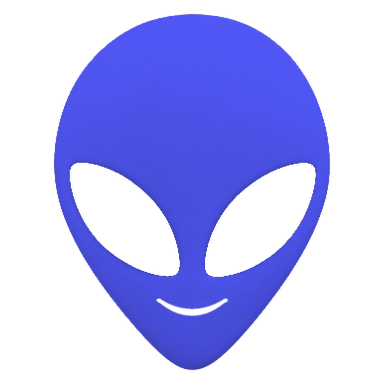
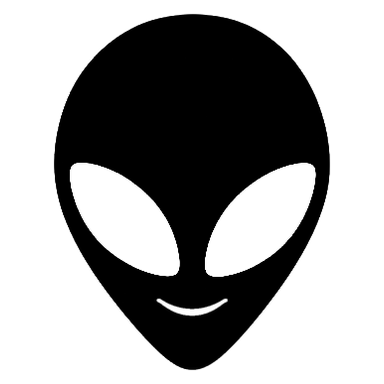
fix(landing): the code is drawn in ink, with no margin but the one a scanner needs
Two things were wrong with the plate the hero now holds, and both were mine to
get right (#262).

INK, NOT THE BRAND ACCENT. The plate drew in cobalt `#494fdf` because the code
colourway in the design kit is cobalt. Cobalt is the system's emphasis colour and
the doc keeps it scarce on marketing surfaces — a code is a document a camera
reads before a person looks at it, and 6.06:1 is 0.88 of the contrast ink gives
it. The modules are `--color-canvas-dark` now (21.00:1, the maximum a code can
carry), and the mark in the well is the same ink: `generate.py`'s code colourway
is regenerated in `#000000`, so the head and the modules are one colour.

THE PADDING WAS A SECOND MARGIN. The plate carried `p-5` on top of the four
modules of quiet zone already inside the SVG, so a reader saw 50px of white
around a code that needs 30. The quiet zone IS the margin; the plate adds none
now, `overflow-hidden` rounds the SVG's own white background, and the 26-31px
quiet zone keeps every corner module clear of the 12px arc. The code fills the
plate and is bigger at the same width.

`check:qr-plate` moves with it: the ink literal is now pinned to
`--color-canvas-dark` and the quoted contrast is the measured 21.00:1.

diff --git a/web/components/qr/qr.constants.ts b/web/components/qr/qr.constants.ts
@@ -6,51 +6,56 @@
  * symbol is left intact. All three are geometry. The brand is a fourth, and it is
  * spent out of the first three rather than painted over them.
  *
- *  - **Contrast is cobalt, and it is measured.** `#494fdf` is `--color-primary`
- *    (`web/app/globals.css`); a literal here because this colour goes into an SVG
- *    attribute a machine reads, not into a class a person styles. Cobalt on the white
- *    plate is **6.06:1** (relative luminance 0.123 against 1.000), where literal black
- *    is 21.00:1. So the code spends contrast for the brand, and the cost is known: the
- *    symbol keeps 88% of the symbol contrast black gave it (SC 0.88 vs 1.00, against
- *    the 0.20 a scanner needs). What defends the rest of the margin is that every
- *    module keeps its FULL dark area — corners rounded, module not shrunk to a dot,
- *    and neighbours overlapping by 3% so no white seam grows between them. A "pretty"
- *    code of 70% dots throws away a third of the dark area the contrast was measured
- *    on; this one throws away none of it.
- *  - **The quiet zone travels inside the SVG.** Four clean modules, in the viewBox,
- *    not in the plate's padding. That is the difference that matters: the download
- *    rasterises the SVG on its own, where CSS padding does not exist, and a printed
- *    code with no margin is a code a scanner cannot find. The plate's own padding is
- *    now visual breathing room on top of a margin that is already there, so it can no
- *    longer silently shrink the way pixel padding around a scaling code does.
+ *  - **Contrast is INK, and it is the maximum a code can have.** `#000000` is
+ *    `--color-canvas-dark` (`web/app/globals.css`); a literal here because this colour
+ *    goes into an SVG attribute a machine reads, not into a class a person styles. Black
+ *    on the white plate is **21.00:1**: the symbol contrast is 1.00 against the 0.20 a
+ *    scanner needs. The plate drew in cobalt-violet for a while, at 6.06:1 — 0.88 of
+ *    this, by definition — and the traded margin bought nothing a reader could see on a
+ *    surface this small. Cobalt is the brand accent and the design system keeps it
+ *    scarce on marketing surfaces; a code is a document, and its ink is not decoration.
+ *    Every module keeps its FULL dark area too — corners rounded, module not shrunk to
+ *    a dot, and neighbours overlapping by 3% so no white seam grows between them. A
+ *    "pretty" code of 70% dots throws away a third of the dark area the contrast was
+ *    measured on; this one throws away none of it.
+ *  - **The quiet zone travels inside the SVG.** Four clean modules, in the viewBox. That
+ *    is the difference that matters: the download rasterises the SVG on its own, where
+ *    CSS padding does not exist, and a printed code with no margin is a code a scanner
+ *    cannot find. The plate adds NO padding of its own — the white around the modules in
+ *    a Seti code is exactly the four modules ISO 18004 requires, so the code fills the
+ *    plate instead of floating in a second, decorative margin.
  *  - **Error correction is H (30%)** because the mark sits in the middle of the
  *    symbol and the well under it erases real modules. At 26% of the code's own width
  *    the mark is 8, 9 or 11 modules across as the payload grows (29, 33, 41 modules at
  *    level H), the well around it is two modules wider, and the erased area is 11.9%,
  *    11.1% or 10.1% of the symbol — a third of what H can correct. The decodes in the
  *    PR are the evidence; this arithmetic only says where to look.
- *  - **The mark is cobalt too**, from the design kit's own generator
+ *  - **The mark is ink too**, from the design kit's own generator
  *    (`design-kit/seti.live/marks/`), because the cream mark is 1.3:1 on a white well
  *    and reads as two eyes with no head. Mark and modules being one ink is what makes
  *    the code a brand object rather than a logo stuck on a QR code.
  *
- * The arithmetic, at the one plate size (288px box, 280px code after `p-5`) and at the
- * size a download writes:
+ * The arithmetic, at the one plate size (a 320px plate, with the code filling it) and at
+ * the size a download writes:
  *
  * | payload | modules | module on screen | quiet zone | mark | well |
  * | --- | --- | --- | --- | --- | --- |
- * | 29 (v3, a username) | 37 with the zone | 7.57px | 30px | 61px | 76px |
- * | 33 (v4, a business) | 41 with the zone | 6.83px | 27px | 62px | 75px |
- * | 41 (v6, an address) | 49 with the zone | 5.71px | 23px | 63px | 74px |
+ * | 29 (v3, a username) | 37 with the zone | 8.65px | 34.6px | 69px | 87px |
+ * | 33 (v4, a business) | 41 with the zone | 7.80px | 31.2px | 70px | 86px |
+ * | 41 (v6, an address) | 49 with the zone | 6.53px | 26.1px | 72px | 85px |
  *
  * and at 1024px that 33-module code is 24.98px per module with a 100px quiet zone, so
  * a 35mm code printed at 300dpi (~413px) is a downscale, not an upscale. The mark
- * holds one size, ~75px, whatever the payload: it scales with the module COUNT while
+ * holds one size, ~70px, whatever the payload: it scales with the module COUNT while
  * the module itself shrinks.
  */
 export const QR_COLOURS = {
-  /** `--color-primary`. Modules, finder patterns and the mark are one ink. */
-  modules: '#494fdf',
+  /**
+   * `--color-canvas-dark`. Modules, finder patterns and the mark are one ink, and it is
+   * the darkest the system has: a code is read at 21.00:1 here, which is the whole
+   * margin a camera gets to lose.
+   */
+  modules: '#000000',
   /** The plate, and the quiet zone around the code. */
   plate: '#ffffff',
 } as const;
@@ -83,14 +88,19 @@ export const QR_GEOMETRY = {
 export const QR_PLATE = {
   /**
    * A light canvas at the ONE surface radius, with the quiet zone already inside the
-   * SVG. The plate's WIDTH is set on the element from `QrPlate`'s `width` prop (20rem by
+   * SVG — and NO padding of its own. The white a reader sees around the modules is the
+   * four modules ISO 18004 requires, exactly, so the code fills the plate instead of
+   * sitting inside a second, decorative margin nobody can justify. `overflow-hidden`
+   * is what lets the plate's 12px corner round the SVG's own white background while
+   * the quiet zone (26px at the smallest payload) keeps every corner module clear of
+   * the arc.
+   *
+   * The plate's WIDTH is set on the element from `QrPlate`'s `width` prop (20rem by
    * default, capped at `max-width: 100%`), so a surface can hold the same plate at its
    * own size instead of styling a second one, and a 320px phone clamps it rather than
-   * overflowing. 20rem keeps the 33-module code at 6.83px per module on a 390px phone.
-   * The 12px corner radius sits inside a 27px quiet zone, so no corner module is ever
-   * clipped.
+   * overflowing.
    */
-  plate: 'rounded-md bg-canvas-light p-5',
+  plate: 'overflow-hidden rounded-md bg-canvas-light',
   /** The width every surface gets unless it asks for another one. */
   width: '20rem',
   /** The plate positions the mark; the mark's WIDTH comes from the geometry. */

diff --git a/web/app/components/landing/HeroPaymentQr.tsx b/web/app/components/landing/HeroPaymentQr.tsx
@@ -12,14 +12,15 @@ import { HERO_QR_COPY } from './HeroPaymentQr.copy';
  * IT IS THE APP'S OWN PLATE, not a second code. This used to draw `react-qr-code`
  * black-on-white at level `M` with no mark, which meant the landing page showed a
  * different object from the one `components/qr/QrPlate.tsx` puts on the receive and
- * merchant surfaces. The plate now is that one: cobalt modules, the Seti mark in the
- * well the geometry clears for it, level `H`, and the quiet zone inside the SVG. The
- * mark and the modules are one ink, which is what makes the code read as a brand
- * object rather than a logo pasted on a QR; the contrast, the well's share of the
- * symbol and the four-module quiet zone are the arithmetic `qr.constants.ts` records
- * and `npm run check:qr-plate` measures. The plate also carries the hero slot's slow
- * float (`hero-float`), which moves the whole plate ±3px about its own place; the
- * code's modules stay square, because a rounded module is a broken module.
+ * merchant surfaces. The plate now is that one: ink modules, the Seti mark in the well
+ * the geometry clears for it, level `H`, the quiet zone inside the SVG and no padding
+ * of the plate's own. The mark and the modules are one ink, which is what makes the
+ * code read as a brand object rather than a logo pasted on a QR; the contrast, the
+ * well's share of the symbol and the four-module quiet zone are the arithmetic
+ * `qr.constants.ts` records and `npm run check:qr-plate` measures. The plate also
+ * carries the hero slot's slow float (`hero-float`), which moves the whole plate ±3px
+ * about its own place; the code's modules stay square, because a rounded module is a
+ * broken module.
  *
  * THREE BLOCKS, NOT FOUR: the plate, the caption, the printed URL with its warning
  * under it. Each one is directly under the thing it is about, and the gaps say which

diff --git a/web/components/qr/QrPlateMark.tsx b/web/components/qr/QrPlateMark.tsx
@@ -8,11 +8,12 @@ import type { QrPlateMarkProps } from './qr.types';
  * `neutral`, not `friendly`: a code is a document — it is the thing a stranger scans
  * and a printer prints — and the kit's role map puts documents on the neutral face.
  *
- * `canvas="code"` is the kit's cobalt colourway, generated by
+ * `canvas="code"` is the kit's ink colourway, generated by
  * `design-kit/seti.live/marks/generate.py`. It is not a recolour of another file: the
  * cream mark is 1.3:1 on this white well and reads as two eyes with no head, and the
- * white mark is 1:1. Cobalt is the same ink as the modules (6.06:1 on white), which is
- * what makes the code read as one object.
+ * white mark is 1:1. Ink is the same colour as the modules (21.00:1 on white, the
+ * darkest the system has), which is what makes the code read as one object. It was
+ * cobalt until the plate stopped spending its contrast on the brand accent.
  *
  * It is a raster laid over the vector rather than an `<image>` inside it, because a
  * serialised SVG loaded as an image will not fetch an external href. The export draws

diff --git a/web/components/ui/BrandMark.types.ts b/web/components/ui/BrandMark.types.ts
@@ -10,8 +10,9 @@
  * is the cream one. See `design-kit/seti.live/marks/README.md` for the role map.
  *
  * `code` is the one canvas that is not a background but an INK: the white well in the
- * middle of a payment code, where the mark must be the same cobalt as the modules
- * (6.06:1 on white) or it reads as nothing at all. The cream pair is 1.3:1 there.
+ * middle of a payment code, where the mark must be the same colour as the modules
+ * around it (ink, 21.00:1 on white) or it reads as nothing at all. The cream pair is
+ * 1.3:1 there and the white pair is 1:1.
  */
 export type BrandExpression = 'neutral' | 'friendly';
 export type BrandCanvas = 'light' | 'dark' | 'code';

diff --git a/design-kit/seti.live/marks/generate.py b/design-kit/seti.live/marks/generate.py
@@ -31,13 +31,13 @@ which gives marks that genuinely differ only by the expression:
   seti-mark-friendly.png       cream head, ink eyes + smile      (on canvas-light)
   seti-mark-neutral-dark.png   white head, eyes punched to alpha 0
   seti-mark-friendly-dark.png  white head, eyes + smile punched
-  seti-mark-neutral-code.png   cobalt head, eyes punched         (in a code's well)
-  seti-mark-friendly-code.png  cobalt head, eyes + smile punched (in a code's well)
+  seti-mark-neutral-code.png   ink head, eyes punched            (in a code's well)
+  seti-mark-friendly-code.png  ink head, eyes + smile punched    (in a code's well)
 
 Eyes are PUNCHED on the mono pair rather than filled dark: the dark canvas is
 black and a painted pupil breaks the moment the mark sits on anything else. The
 code colourway is the same argument one surface further in — its well is white,
-so a punched eye is a white eye and the head is one solid cobalt shape.
+so a punched eye is a white eye and the head is one solid ink shape.
 
 Every mark shares one crop, one scale and one canvas, so swapping expression,
 colourway or canvas never shifts the mark by a pixel.
@@ -68,15 +68,20 @@ MINUSCULE = 0.4  # mask feather, px
 
 MOUTH_INK = (26, 22, 23)
 DARK_INK = (255, 255, 255)
-# Cobalt — `--color-primary` in `web/app/globals.css` (`#494fdf`).
+# Ink — `--color-canvas-dark` in `web/app/globals.css` (`#000000`), the same literal
+# the code's modules are drawn in (`web/components/qr/qr.constants.ts`).
 #
 # The one colourway that is not a canvas: it is the ink of the payment code's
-# white well, and the mark has to be the SAME ink as the thing it sits in. Cream
+# white well, and the mark has to be the SAME ink as the modules around it. Cream
 # on that well is 1.3:1 and reads as two eyes with no head; the white pair has no
-# contrast on white at all. Cobalt on white is 6.06:1, so the mark and the
-# modules are one colour, which is what makes a Seti code read as one object
-# rather than a logo stuck on a QR code.
-CODE_INK = (73, 79, 223)
+# contrast on white at all. Ink on white is 21.00:1 — the maximum a code can
+# carry — so the mark and the modules are one colour, which is what makes a Seti
+# code read as one object rather than a logo stuck on a QR code.
+#
+# It was cobalt `#494fdf` (6.06:1) while the plate wanted the brand accent. A code
+# is a document read by a camera before it is a surface seen by a person, and the
+# brand accent is not the thing to spend its contrast on.
+CODE_INK = (0, 0, 0)
 
 
 def _luma(rgb: np.ndarray) -> np.ndarray:

diff --git a/design-kit/seti.live/marks/README.md b/design-kit/seti.live/marks/README.md
@@ -45,7 +45,7 @@ expression and colourway, which is the whole point:
 | `seti-mark-friendly.png` | friendly | light | same body, smile in the eyes' ink |
 | `seti-mark-neutral-dark.png` | neutral | dark | white, same shading, **eyes punched to alpha 0** |
 | `seti-mark-friendly-dark.png` | friendly | dark | as above, smile punched |
-| `seti-mark-neutral-code.png` | neutral | code | cobalt `#494fdf`, same shading, **eyes punched** |
+| `seti-mark-neutral-code.png` | neutral | code | ink `#000000`, same shading, **eyes punched** |
 | `seti-mark-friendly-code.png` | friendly | code | as above, smile punched |
 
 All six are 384×384 with one crop, one scale, and the head at 93% of the
@@ -102,13 +102,17 @@ colourways above both fail, for opposite reasons:
 | --- | --- | --- |
 | cream `rgb(223,214,205)` (light) | 1.3:1 | two dark eyes with no head |
 | white (dark) | 1.0:1 | nothing |
-| **cobalt `#494fdf` (code)** | **6.06:1** | one solid head with white eyes |
+| **ink `#000000` (code)** | **21.00:1** | one solid head with white eyes |
 
 So the code colourway is a real third ink, not a tint of an existing file: the head
-is filled with `--color-primary` and its eyes are PUNCHED, exactly the treatment the
-dark pair gets, because the well behind them is white. Cobalt is also the same ink as
+is filled with `--color-canvas-dark` and its eyes are PUNCHED, exactly the treatment the
+dark pair gets, because the well behind them is white. Ink is also the same colour as
 the modules, which is what makes the code read as one object rather than a logo
 pasted on a QR code.
+
+It was cobalt `#494fdf` (6.06:1) while the plate spent its contrast on the brand
+accent. A code is a document a camera reads before a person looks at it, so the ink
+went to the maximum the system has.
 
 `code` is a colourway axis, so both expressions exist — but only the NEUTRAL one is
 ever drawn: a code is a document. `seti-mark-friendly-code.png` is generated so the
